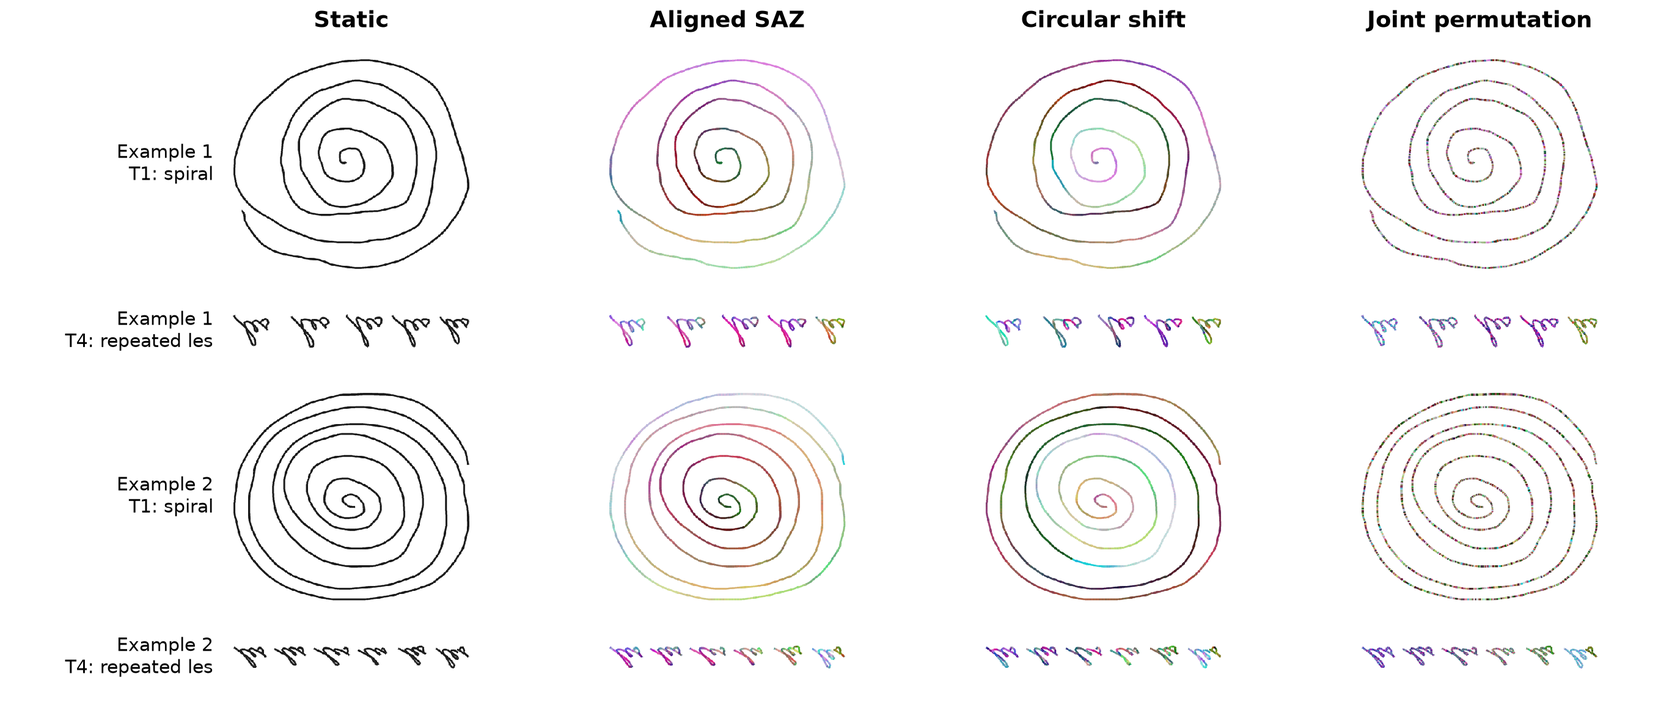
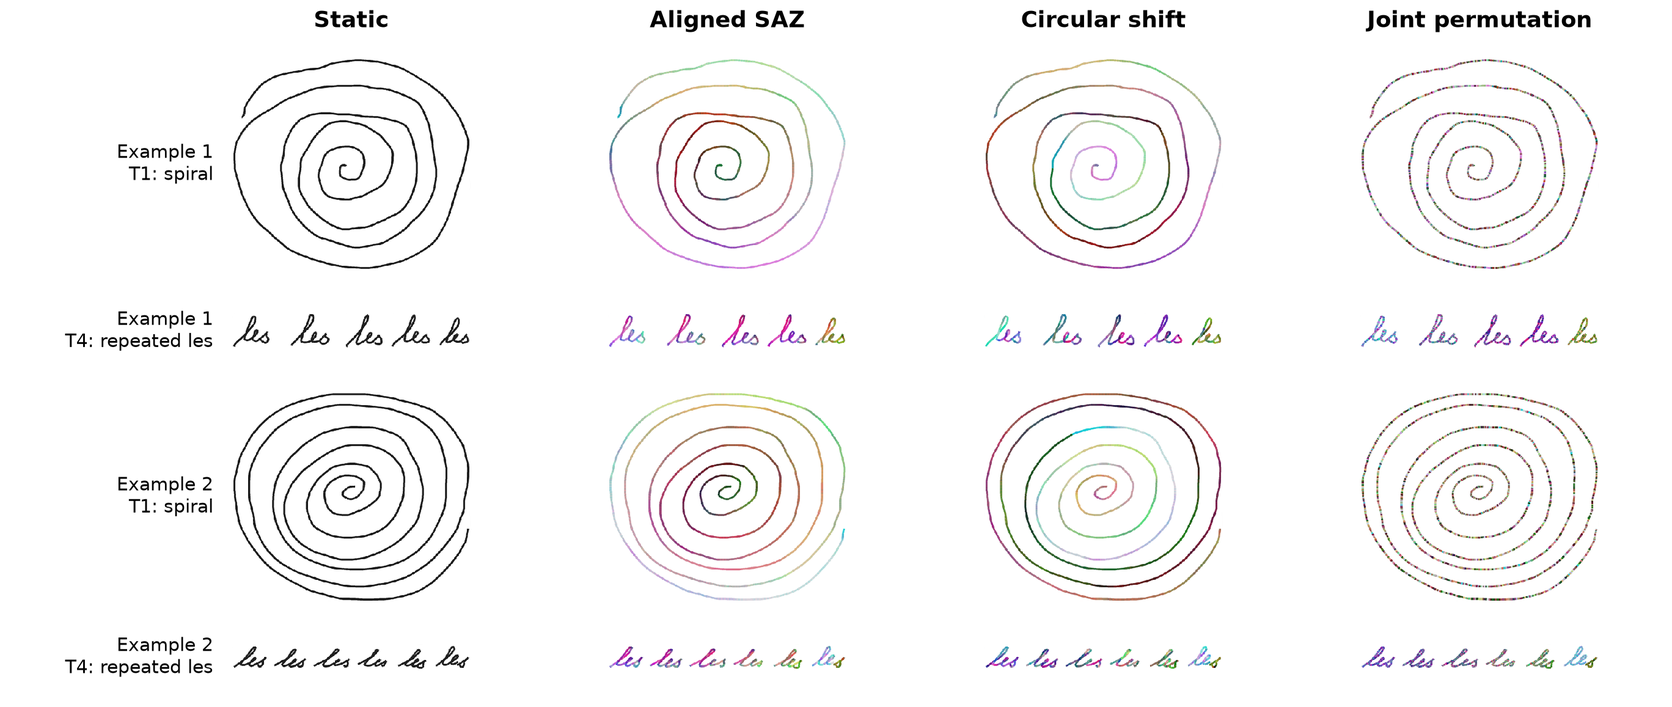
Address advisors' review: Fig. 6 orientation, Holm citation, LPQ rationale, spelling
- Flip the Fig. 6 panels vertically for display so the T4 "les" reads in
  writing orientation, and update its caption and the Section 2 note.
- Add and cite Holm (1979), verified against the JSTOR cover page.
- LPQ rationale: include speed among the channels, cite blur tolerance,
  and state that no alternative descriptor was consistently superior.
- Fix typos from the Overleaf edits (x_i/y_i, "and and", St.~Anne's,
  "on the PaHaW dataset") and define t_i.
- Use American spelling throughout (color, favor, behavior, centering).

diff --git a/sections/04_representation_results.tex b/sections/04_representation_results.tex
@@ -9,7 +9,7 @@ Experiments~1 and~2 compare the encodings on common participant partitions. LPQ 
 \noindent
 Local Phase Quantization describes texture through local Fourier phase information \cite{Ojansivu2008}. We apply the same implementation independently to each RGB channel.
 
-The choice of LPQ was motivated by its encoding of local phase relationships in compact histograms, which is comparatively robust to blur and artifacts introduced by resizing, rasterization, and anti-aliasing. This property is particularly suitable for pseudodynamic minimaps with fixed line width, where the relevant information lies primarily in the spatial organization of the strokes and in local variations of the semantic RGB channels (pressure, altitude, azimuth), rather than in stroke-thickness variations. The selection was informed by preliminary comparisons against other texture and shape descriptors (i.e. grayscale and semantic RGB Local Binary Patterns (LBP), opponent LBP, GLCM/Haralick statistics, Gabor filters, Histogram of Oriented Gradients (HOG), and wavelet-based features) with LPQ providing the most favorable balance between compactness, robustness, and sensitivity to the fine local patterns encoded in the minimaps.
+The choice of LPQ was motivated by its encoding of local phase relationships in compact histograms, which tolerates blur \cite{Ojansivu2008} and is therefore less sensitive to the smoothing introduced by resizing, rasterization and anti-aliasing. This property suits pseudodynamic minimaps drawn with a fixed line width, where the relevant information lies in the spatial organization of the strokes and in local variations of the semantic RGB channels (speed, pressure, altitude and azimuth) rather than in stroke thickness. The selection was informed by preliminary comparisons with other texture and shape descriptors, namely grayscale and semantic RGB Local Binary Patterns (LBP), opponent LBP, GLCM/Haralick statistics, Gabor filters, Histograms of Oriented Gradients (HOG) and wavelet-based features. No alternative was consistently superior across tasks, and LPQ offered a favorable balance between compactness, robustness and sensitivity to the fine local patterns encoded in the minimaps.
 
 Before extraction, foreground is detected by any channel intensity below 250. We crop its bounding box, add a margin equal to 5\% of the longer dimension, pad to a square with white, and resize to $64\times64$ by bilinear interpolation. LPQ filters each channel with four complex $5\times5$ kernels at frequency offsets $(1,0)$, $(0,1)$, $(1,1)$ and $(1,-1)$, scaled by $1/5$. The signs of their real and imaginary responses form an eight-bit code at each pixel, using reflected boundaries. We normalize a 256-bin histogram by its count, take its element-wise square root, and concatenate the channels. The 768-attribute vector includes the padded background. No decorrelation or spatial pyramid is applied.
 
@@ -26,7 +26,7 @@ Experiment~1 starts from the static trace (encoding~1), which reaches a recordin
 \begin{figure*}[t]
 \centering
 \includegraphics[width=0.8\textwidth]{encoding_heatmap.pdf}
-\caption{Recording-level macro F1 of Experiment~1 for every encoding and task, averaged over five repetitions. Rows follow Table~\ref{tab:encoding}, from the static trace (1) to $PAZ$ (9). Colour helps most on the spiral (T1), and the best encoding differs between tasks.}
+\caption{Recording-level macro F1 of Experiment~1 for every encoding and task, averaged over five repetitions. Rows follow Table~\ref{tab:encoding}, from the static trace (1) to $PAZ$ (9). Color helps most on the spiral (T1), and the best encoding differs between tasks.}
 \label{fig:heatmap}
 \end{figure*}
 \noindent
@@ -44,21 +44,21 @@ Holding $SAZ$ and the participant partitions fixed, Experiment~1 also varies the
 \subsection{Choosing the Encoding Within Training}
 \label{sec:nested-followup}
 \noindent
-Experiment~2 evaluates the procedure that chooses an encoding. It keeps the outer participant partitions and adds three inner folds common across tasks. Within each outer training set, each task and encoding receives the same 21-candidate SVM search, and one encoding is chosen for all eight tasks by the unweighted mean of the selected per-task scores, with ties resolved in favour of the static trace. We compare a fixed static policy, selection among all nine encodings, and selection among the eight dynamic encodings.
+Experiment~2 evaluates the procedure that chooses an encoding. It keeps the outer participant partitions and adds three inner folds common across tasks. Within each outer training set, each task and encoding receives the same 21-candidate SVM search, and one encoding is chosen for all eight tasks by the unweighted mean of the selected per-task scores, with ties resolved in favor of the static trace. We compare a fixed static policy, selection among all nine encodings, and selection among the eight dynamic encodings.
 
 Experiment~2 also chooses the fusion rule without the test participants. The training participants are split into three parts; on each split, encoding and SVM selection are repeated on two parts and the third is predicted. These validation predictions choose the rule, after which the encoding and per-task models are selected again on all training participants. Calibration uses training participants only, and every choice is saved before the test participants are scored.
 
-Training data consistently favour the dynamics. Although ties went to the static trace, selection among all nine encodings chose a dynamic encoding in 24 of the 25 outer training sets. No single signal dominates: in the dynamic-only policy, azimuth (5) was chosen five times and $SAZ$ (8) four times. On the recording-level endpoint the dynamic-only policy reaches 0.5643 and the nine-encoding policy 0.5618, against 0.5620 for static, with paired differences of +0.0023 [$-$0.0172, 0.0221] and $-$0.0002 [$-$0.0192, 0.0190]. One encoding chosen for eight heterogeneous tasks averages gains with losses, from +0.0567 on the spiral to $-$0.0274 on T5 for the dynamic-only policy. With the fusion rule also chosen inside training, participant-level macro F1 is 0.6017 for dynamic-only and 0.5991 for nine-encoding selection, against 0.6171 for static. Experiment~3 therefore tests the selected encoding on a shorter and more homogeneous task set.
+Training data consistently favor the dynamics. Although ties went to the static trace, selection among all nine encodings chose a dynamic encoding in 24 of the 25 outer training sets. No single signal dominates: in the dynamic-only policy, azimuth (5) was chosen five times and $SAZ$ (8) four times. On the recording-level endpoint the dynamic-only policy reaches 0.5643 and the nine-encoding policy 0.5618, against 0.5620 for static, with paired differences of +0.0023 [$-$0.0172, 0.0221] and $-$0.0002 [$-$0.0192, 0.0190]. One encoding chosen for eight heterogeneous tasks averages gains with losses, from +0.0567 on the spiral to $-$0.0274 on T5 for the dynamic-only policy. With the fusion rule also chosen inside training, participant-level macro F1 is 0.6017 for dynamic-only and 0.5991 for nine-encoding selection, against 0.6171 for static. Experiment~3 therefore tests the selected encoding on a shorter and more homogeneous task set.
 
 \subsection{Controls of the Signal--Position Association}
 \label{sec:controls}
 \noindent
-Adding colour changes both the signal content and the image texture. Two controls keep the ingredients of the texture and change only where each signal value occurs: a nonzero circular shift by 25--75\% of the segments within each pen-down stroke, and a joint permutation of the segments within that stroke. The three channels move together, so each segment keeps its combination of values; single-segment strokes are unchanged and no value crosses a pen lift. Both controls keep geometry, line width and normalization, and permutation additionally breaks the continuity of the signal along the stroke (Figure~\ref{fig:controls-examples}). Each control transforms training and test recordings with three fixed seeds and repeats the dynamic-only selection; metrics are averaged over seeds, and bootstrap draws keep each participant's tasks, repetitions and seeds together.
+Adding color changes both the signal content and the image texture. Two controls keep the ingredients of the texture and change only where each signal value occurs: a nonzero circular shift by 25--75\% of the segments within each pen-down stroke, and a joint permutation of the segments within that stroke. The three channels move together, so each segment keeps its combination of values; single-segment strokes are unchanged and no value crosses a pen lift. Both controls keep geometry, line width and normalization, and permutation additionally breaks the continuity of the signal along the stroke (Figure~\ref{fig:controls-examples}). Each control transforms training and test recordings with three fixed seeds and repeats the dynamic-only selection; metrics are averaged over seeds, and bootstrap draws keep each participant's tasks, repetitions and seeds together.
 
 \begin{figure*}[t]
 \centering
 \includegraphics[width=\textwidth]{spatial_controls_cropped.png}
-\caption{The two controls of Experiment~2 applied to the spiral (T1) and repeated \textit{les} (T4) of two participants, with seed 20260909. Aligned $SAZ$ is the unpermuted encoding. Geometry, pen-down segments and line width are unchanged; circular shifts move coherent runs of colour along each stroke, whereas joint permutation scatters them. Images are shown as rendered, vertically mirrored (Section~\ref{sec:encoding}), and were not selected by classifier performance.}
+\caption{The two controls of Experiment~2 applied to the spiral (T1) and repeated \textit{les} (T4) of two participants, with seed 20260909. Aligned $SAZ$ is the unpermuted encoding. Geometry, pen-down segments and line width are unchanged; circular shifts move coherent runs of color along each stroke, whereas joint permutation scatters them. The rendered images are flipped vertically for display, so the writing appears in its natural orientation (Section~\ref{sec:encoding}); they were not selected by classifier performance.}
 \label{fig:controls-examples}
 \end{figure*}
 
@@ -79,4 +79,4 @@ Joint-permutation control & 0.5442 [0.4956, 0.5885] & +0.0201 [0.0010, 0.0399]\\
 \end{tabular}
 \end{table*}
 
-Table~\ref{tab:nested-controls} summarizes Experiment~2. Displacing the signals within strokes lowered recording-level macro F1 from 0.5643 to 0.5561 under circular shifts and to 0.5442 under joint permutation, a decrease of 0.0201 [0.0010, 0.0399] whose interval lies above zero. The effect is largest on the spiral, where permutation removes 0.0609 [0.0086, 0.1174]. This pattern indicates that performance depends on where the dynamics are placed along the trajectory, not only on the colours present in the image. The four contrasts of this experiment, the two selection policies against static and dynamic-only selection against each control, form one Holm family, in which the permutation effect has adjusted $p=0.1848$; confirming it will require a larger cohort.
+Table~\ref{tab:nested-controls} summarizes Experiment~2. Displacing the signals within strokes lowered recording-level macro F1 from 0.5643 to 0.5561 under circular shifts and to 0.5442 under joint permutation, a decrease of 0.0201 [0.0010, 0.0399] whose interval lies above zero. The effect is largest on the spiral, where permutation removes 0.0609 [0.0086, 0.1174]. This pattern indicates that performance depends on where the dynamics are placed along the trajectory, not only on the colors present in the image. The four contrasts of this experiment, the two selection policies against static and dynamic-only selection against each control, form one Holm family, in which the permutation effect has adjusted $p=0.1848$; confirming it will require a larger cohort.

diff --git a/sections/02_encoding.tex b/sections/02_encoding.tex
@@ -2,21 +2,21 @@
 \label{sec:encoding}
 
 \noindent
-To vary the information encoded in each minimap, we first reconstruct the visible trace. We then map individual pen signals to colour and combine them without changing the trajectory or rendering geometry.
+To vary the information encoded in each minimap, we first reconstruct the visible trace. We then map individual pen signals to color and combine them without changing the trajectory or rendering geometry.
 
 \subsection{The Visible Trace}
 \noindent
-Let $q_i, i=1,2,..., N$ a handwriting task recording containing $N$ samples or points:
+Let $q_i$, $i=1,\dots,N$, be the samples or points of a handwriting task recording:
 \begin{equation}
  q_i=(x_i,y_i,t_i,s_i,z_i,a_i,p_i),
 \end{equation}
-where: $x_i$ and $x_i$ represent respective spatial coordinates at time $i$, $s_i$ indicates surface contact (i.e., "on-surface" or "in-air") , $z_i$ is the azimuth, $a_i$ represent the altitude and $p_i$ is pressure on the pen. The stored PaHaW columns place $y$ before $x$ coordinates; the renderer restores their planar order. Image rows follow the tablet's vertical coordinate without inversion, so every minimap is a vertically mirrored view of the writing; the transformation is identical for all records and both classes, and Figure~\ref{fig:tasks} shows the tasks in writing orientation.
+where $x_i$ and $y_i$ are the spatial coordinates of sample $i$, $t_i$ is its timestamp, $s_i$ indicates surface contact (i.e., ``on-surface'' or ``in-air''), $z_i$ is the azimuth, $a_i$ represents the altitude and $p_i$ is the pen pressure. The stored PaHaW columns place $y$ before $x$ coordinates; the renderer restores their planar order. Image rows follow the tablet's vertical coordinate without inversion, so every minimap is a vertically mirrored view of the writing; the transformation is identical for all records and both classes, and Figures~\ref{fig:tasks} and~\ref{fig:controls-examples} show the writing in its natural orientation.
 
 The static image uses only position and the contact indicator. A segment between samples $i$ and $i+1$ is drawn if both samples are on the surface:
 \begin{equation}
  \mathcal{S}=\{i:s_i=1\ \mathrm{and}\ s_{i+1}=1\}.
 \end{equation}
-This preserves pen lifts as gaps instead of joining the end of one stroke to the beginning of the next. Neither the in-air trajectory nor the duration of a lift appears in the image. Contact points alone determine its bounding box that is centered on a $512\times512$ white canvas with a 20-pixel margin, using one scale factor for both axes. Segments are drawn in RGB $(30,30,30)$ with constant 4-pixel thickness. Rendering takes place at three times the target resolution and is reduced with Lanczos filtering. These settings remain fixed throughout the colour experiments.
+This preserves pen lifts as gaps instead of joining the end of one stroke to the beginning of the next. Neither the in-air trajectory nor the duration of a lift appears in the image. Contact points alone determine its bounding box that is centered on a $512\times512$ white canvas with a 20-pixel margin, using one scale factor for both axes. Segments are drawn in RGB $(30,30,30)$ with constant 4-pixel thickness. Rendering takes place at three times the target resolution and is reduced with Lanczos filtering. These settings remain fixed throughout the color experiments.
 
 The image retains form and stroke discontinuities, but fitting every record to its own canvas removes absolute size. Geometrically similar samples of different sizes can produce the same image, discarding information about absolute micrographia.
 
@@ -29,11 +29,11 @@ The image retains form and stroke discontinuities, but fitting every record to i
 \put(0.010,0.322){\makebox(0,0){\rotatebox{90}{\small Healthy example}}}
 \put(0.010,0.105){\makebox(0,0){\rotatebox{90}{\small PD example}}}
 \end{picture}
-\caption{Building a pseudodynamic minimap from the same spiral trace. Rows show one healthy and one PD example, selected by a fixed identifier rule without reference to prediction quality. Columns move from the static trace (encoding~1 in Table~\ref{tab:encoding}) to speed alone (2) and two RGB triplets, $SAZ$ (8) and $PAZ$ (9). The trajectory is unchanged; colour describes within-recording variation.}
+\caption{Building a pseudodynamic minimap from the same spiral trace. Rows show one healthy and one PD example, selected by a fixed identifier rule without reference to prediction quality. Columns move from the static trace (encoding~1 in Table~\ref{tab:encoding}) to speed alone (2) and two RGB triplets, $SAZ$ (8) and $PAZ$ (9). The trajectory is unchanged; color describes within-recording variation.}
 \label{fig:progressive}
 \end{figure*}
 \noindent
-Four measurements are candidates for colour: speed ($S$), pressure ($P$), altitude ($A$) and azimuth ($Z$). Altitude describes pen inclination relative to the surface, while azimuth describes its orientation in the tablet plane. We first encode each signal alone (encodings 2--5 in Table~\ref{tab:encoding}), always in the red channel, with green and blue fixed at 30. This avoids changing the channel assignment while screening the signals.
+Four measurements are candidates for color: speed ($S$), pressure ($P$), altitude ($A$) and azimuth ($Z$). Altitude describes pen inclination relative to the surface, while azimuth describes its orientation in the tablet plane. We first encode each signal alone (encodings 2--5 in Table~\ref{tab:encoding}), always in the red channel, with green and blue fixed at 30. This avoids changing the channel assignment while screening the signals.
 
 For a surface segment, speed is calculated directly from the consecutive coordinates and timestamps:
 \begin{equation}
@@ -52,11 +52,11 @@ Each transformed signal is scaled within the recording being rendered. Let $q_{.
 with $u_i=0.5$ if the percentile range is degenerate. We map it to an integer channel value
 \begin{equation}
  c_i=\operatorname{round}(30+190u_i).
- \label{eq:colour}
+ \label{eq:color}
 \end{equation}
 The white background stays outside the semantic range. Antialiasing introduces intermediate intensities at boundaries, as in the static reconstruction.
 
-Each record is normalized independently, without a cohort-wide reference distribution or class labels. Colour therefore describes relative variation within a recording: the same red value in two images need not represent the same absolute speed or pressure. Circular centering also removes absolute pen orientation. These quantities remain available to methods that use the physical measurements directly.
+Each record is normalized independently, without a cohort-wide reference distribution or class labels. Color therefore describes relative variation within a recording: the same red value in two images need not represent the same absolute speed or pressure. Circular centering also removes absolute pen orientation. These quantities remain available to methods that use the physical measurements directly.
 
 \subsection{Combining Signals in RGB}
 \noindent
@@ -96,4 +96,4 @@ Figure~\ref{fig:rgb} decomposes an $SAZ$ minimap into its channels. In this spir
 
 Because the descriptor applies the same histogram construction to each channel, permuting the RGB assignment only permutes three feature blocks, and standardization followed by a linear or radial-basis SVM is invariant to that permutation apart from numerical effects. Each triplet therefore needs one assignment rather than six for the SVM experiment. The argument does not extend to every image model, and the CNN receives one fixed assignment.
 
-Segments are drawn in acquisition order. A later segment can overwrite an earlier colour at a crossing, and the image has no separate layer for repeated visits to the same position. It preserves spatially located signal variation, not the complete sample sequence. Calling the result pseudodynamic reflects that distinction.
+Segments are drawn in acquisition order. A later segment can overwrite an earlier color at a crossing, and the image has no separate layer for repeated visits to the same position. It preserves spatially located signal variation, not the complete sample sequence. Calling the result pseudodynamic reflects that distinction.

diff --git a/sections/01_introduction.tex b/sections/01_introduction.tex
@@ -2,20 +2,20 @@
 \label{sec:introduction}
 \input{sections/fig_method}
 \noindent
-When writing in an online environment, a digitizing tablet records the pen trajectory together with its speed, pressure and inclination. Encoding these measurements as colour adds information about how a pen trace was produced while keeping its recognizable shape, so that standard image descriptors and classifiers can use the dynamics directly.
+When writing in an online environment, a digitizing tablet records the pen trajectory together with its speed, pressure and inclination. Encoding these measurements as color adds information about how a pen trace was produced while keeping its recognizable shape, so that standard image descriptors and classifiers can use the dynamics directly.
 
-We aim to distinguish between Parkinson's disease (PD) and healthy participants (H) using PaHaW, a public annotated dataset containing online handwriting and drawing tasks from 75 participants \cite{Drotar2016}. Handwriting exposes aspects of fine motor behaviour, and the relation between pen motion and diagnosis depends on the task performed, device used and participant characteristics \cite{Impedovo2019}.
+We aim to distinguish between Parkinson's disease (PD) and healthy participants (H) using PaHaW, a public annotated dataset containing online handwriting and drawing tasks from 75 participants \cite{Drotar2016}. Handwriting exposes aspects of fine motor behavior, and the relation between pen motion and diagnosis depends on the task performed, device used and participant characteristics \cite{Impedovo2019}.
 
-We propose \emph{pseudodynamic minimaps}, a new image representation corresponding to online handwriting task executions. In this representation, the planar coordinates determine the spatial location of each point in the image, while colour encodes the dynamic writing information embedded in the strokes (e.g., handwriting pressure). The term minimap follows work that renders source code compactly as a visual signature \cite{Gebara2025}.
+We propose \emph{pseudodynamic minimaps}, a new image representation corresponding to online handwriting task executions. In this representation, the planar coordinates determine the spatial location of each point in the image, while color encodes the dynamic writing information embedded in the strokes (e.g., handwriting pressure). The term minimap follows work that renders source code compactly as a visual signature \cite{Gebara2025}.
 
 Handwriting classification has often used explicitly designed kinematic and pressure features, as in the study that introduced PaHaW \cite{Drotar2016}. Learned features provide another route, either from pen dynamics \cite{Pereira2016} or from visual attributes of reconstructed writing \cite{Moetesum2019}. Dynamic information has also appeared in earlier handwriting images: Diaz et al. encode movement through acquired points and pen-up trajectories for PD detection \cite{Diaz2019}, and Cilia et al. build synthetic RGB images from handwriting dynamics for Alzheimer's disease detection \cite{Cilia2021SyntheticImages}.
 
 Rendering a temporal signal as an image is an established route to reusing visual descriptors and convolutional models. Recurrence plots expose the recurrence structure of a dynamical system as a two-dimensional pattern \cite{Eckmann1987}, Gramian angular fields and Markov transition fields encode a univariate series as a matrix \cite{Wang2015}, and convolutional networks trained on such renderings are competitive on time-series benchmarks \cite{Hatami2018}. The same reduction appears outside the time domain, where source code is rendered as an image for classification \cite{Shi2022}.
 
-Pseudodynamic minimaps differ from these transforms in three respects. The image coordinates are the physical positions the pen visited rather than a time axis, so each signal value stays anchored to the stroke that produced it. Each signal is normalized within its own recording by percentiles, so colour describes the writer's relative variation. Azimuth is centered on its circular mean, so that the arbitrary zero-degree boundary does not separate similar orientations.
+Pseudodynamic minimaps differ from these transforms in three respects. The image coordinates are the physical positions the pen visited rather than a time axis, so each signal value stays anchored to the stroke that produced it. Each signal is normalized within its own recording by percentiles, so color describes the writer's relative variation. Azimuth is centered on its circular mean, so that the arbitrary zero-degree boundary does not separate similar orientations.
 
 This initial study evaluates the representation in three experiments that share participant-separated partitions (Figure~\ref{fig:method}). Experiment~1 adds speed, pressure, altitude and azimuth to the static trace, one at a time and as RGB triplets, and compares classifiers on the leading encoding. Experiment~2 selects the encoding with training participants only and displaces the signals along each stroke to test whether their position matters. Experiment~3 compares minimaps, described by LPQ texture or by pretrained ResNet18 features, with the static trace and with kinematic/pressure attributes on the repeated \textit{l}, \textit{le} and \textit{les} tasks examined in earlier work on PaHaW \cite{Casademunt2023}.
 
 The results indicate that the classifiers make use of the encoded dynamics. Training-only selection preferred a dynamic encoding over the static trace in almost every training set, displacing the signals along the stroke lowered performance, and on the three repeated-pattern tasks the minimap pipeline gave the best observed participant-level decisions among the four pipelines. A cohort of 75 participants leaves the size of these gains uncertain; the study establishes how pen dynamics can be carried into an image and where they help, rather than delivering a clinical tool.
 
-The rest of the paper is organized as follows. Section 2 describes the minimap representation. Section 3 summarizes the PaHaW dataset and evaluation metrics used. In Section 4 and 5 we describe the design of experiments and and report the achieved results. Section 6 provides a discussion on results. Finally, Section 7 concludes the paper.
+The rest of the paper is organized as follows. Section 2 describes the minimap representation. Section 3 summarizes the PaHaW dataset and evaluation metrics used. Sections 4 and 5 describe the design of the experiments and report the results achieved. Section 6 provides a discussion on results. Finally, Section 7 concludes the paper.

diff --git a/main.tex b/main.tex
@@ -44,9 +44,9 @@
 \affiliation{\sup{2}Departamento de Inform\'atica y Estad\'istica, Universidad Rey Juan Carlos, Spain}}
 \fi
 \keywords{Pseudodynamic Minimaps, Handwriting, Time-Series Imaging, Local Phase Quantization, Parkinson's Disease, PaHaW Dataset.}
-%\abstract{A digitizing tablet records pen speed, pressure and inclination alongside the trajectory it traces. We introduce \emph{pseudodynamic minimaps}, a formulation that renders these signals as colour along a contact-only trajectory, combining within-recording percentile normalization with circular azimuth centring. Each task execution yields one compact image. Using 597 PaHaW recordings from 75 participants, we evaluate the construction incrementally: static traces, isolated colour signals, and all four three-signal RGB combinations, under a fixed Local Phase Quantization descriptor, SVM search and participant-separated partitions. We then move encoding selection inside training, add spatial controls that displace signals along each stroke, and compare against kinematic/pressure features and frozen ResNet18 transfer features on three tasks fixed from prior work. Training-selected minimaps reach the highest observed participant-level macro F1, 0.6449, against 0.6143 for static images, 0.6279 for kinematics and 0.6021 for transfer features. The gains are task-dependent: reducing eight tasks to three helps two pipelines and lowers two others. No contrast between encodings, nor between the competitive pipelines, survives multiplicity correction. The study therefore contributes an explicit encoding technique and a controlled account of what its performance depends on, rather than a demonstrated advantage.}
+%\abstract{A digitizing tablet records pen speed, pressure and inclination alongside the trajectory it traces. We introduce \emph{pseudodynamic minimaps}, a formulation that renders these signals as color along a contact-only trajectory, combining within-recording percentile normalization with circular azimuth centering. Each task execution yields one compact image. Using 597 PaHaW recordings from 75 participants, we evaluate the construction incrementally: static traces, isolated color signals, and all four three-signal RGB combinations, under a fixed Local Phase Quantization descriptor, SVM search and participant-separated partitions. We then move encoding selection inside training, add spatial controls that displace signals along each stroke, and compare against kinematic/pressure features and frozen ResNet18 transfer features on three tasks fixed from prior work. Training-selected minimaps reach the highest observed participant-level macro F1, 0.6449, against 0.6143 for static images, 0.6279 for kinematics and 0.6021 for transfer features. The gains are task-dependent: reducing eight tasks to three helps two pipelines and lowers two others. No contrast between encodings, nor between the competitive pipelines, survives multiplicity correction. The study therefore contributes an explicit encoding technique and a controlled account of what its performance depends on, rather than a demonstrated advantage.}
 
-\abstract{Digitizing tablets capture handwriting trajectories together with dynamic information such as speed, pressure and pen orientation. We introduce \emph{pseudodynamic minimaps}, a new visual representation that encodes these dynamics along the contact trajectory, preserving handwriting geometry in a compact image. The formulation combines contact-only rendering, percentile-based normalization and circular azimuth centring. We evaluate pseudodynamic minimaps on 597 recordings from 75 participants of the PaHaW Parkinson's disease dataset in three experiments with participant-separated cross-validation. The first compares static traces, single-signal encodings and RGB combinations of speed, pressure, altitude and azimuth with a Local Phase Quantization descriptor and a SVM classifier. The second selects the encoding with training data only and tests spatial controls that displace the dynamics along the trajectory. The third compares minimaps with kinematic features and with pretrained ResNet18 features extracted from the minimaps. Training-only selection preferred a dynamic encoding in 24 of 25 training sets, and on a predefined three-task subset the minimap pipeline achieved the highest participant-level macro F1 (0.6449), compared with 0.6143 for static images, 0.6279 for kinematic features and 0.6021 for ResNet18 features. These results indicate that pseudodynamic minimaps are an effective way to incorporate pen dynamics into image-based handwriting analysis for Parkinson's disease.}
+\abstract{Digitizing tablets capture handwriting trajectories together with dynamic information such as speed, pressure and pen orientation. We introduce \emph{pseudodynamic minimaps}, a new visual representation that encodes these dynamics along the contact trajectory, preserving handwriting geometry in a compact image. The formulation combines contact-only rendering, percentile-based normalization and circular azimuth centering. We evaluate pseudodynamic minimaps on 597 recordings from 75 participants of the PaHaW Parkinson's disease dataset in three experiments with participant-separated cross-validation. The first compares static traces, single-signal encodings and RGB combinations of speed, pressure, altitude and azimuth with a Local Phase Quantization descriptor and a SVM classifier. The second selects the encoding with training data only and tests spatial controls that displace the dynamics along the trajectory. The third compares minimaps with kinematic features and with pretrained ResNet18 features extracted from the minimaps. Training-only selection preferred a dynamic encoding in 24 of 25 training sets, and on a predefined three-task subset the minimap pipeline achieved the highest participant-level macro F1 (0.6449), compared with 0.6143 for static images, 0.6279 for kinematic features and 0.6021 for ResNet18 features. These results indicate that pseudodynamic minimaps are an effective way to incorporate pen dynamics into image-based handwriting analysis for Parkinson's disease.}
 
 \onecolumn\maketitle\normalsize\setcounter{footnote}{0}\vfill
 \input{sections/01_introduction}

diff --git a/sections/07_discussion.tex b/sections/07_discussion.tex
@@ -2,7 +2,7 @@
 \label{sec:discussion}
 
 \noindent
-The three experiments indicate that the classifiers use the pen dynamics encoded in the minimaps. When the static trace was available and favoured by ties, training-only selection chose a dynamic encoding in 24 of 25 training sets in Experiment~2, and in 23 of 25 with LPQ and 24 of 25 with ResNet18 in Experiment~3. Displacing the signals within strokes lowered recording-level macro F1, most under joint permutation, so the position of each value along the trajectory matters and not only the colours present. The benefit is clearest on the spiral, the drawing task, where $SAZ$ added 0.0802 in Experiment~1 and permutation removed 0.0609 in Experiment~2.
+The three experiments indicate that the classifiers use the pen dynamics encoded in the minimaps. When the static trace was available and favored by ties, training-only selection chose a dynamic encoding in 24 of 25 training sets in Experiment~2, and in 23 of 25 with LPQ and 24 of 25 with ResNet18 in Experiment~3. Displacing the signals within strokes lowered recording-level macro F1, most under joint permutation, so the position of each value along the trajectory matters and not only the colors present. The benefit is clearest on the spiral, the drawing task, where $SAZ$ added 0.0802 in Experiment~1 and permutation removed 0.0609 in Experiment~2.
 
 The gains depend on the task (Figure~\ref{fig:heatmap}). One encoding chosen for all eight tasks averages gains on the spiral and T6 with losses on T2, T3 and T5, which keeps its eight-task mean close to the static trace, whereas on the homogeneous letter patterns of T2--T4 the selected encoding gives the best participant-level decisions. Choosing encodings per task, rather than one for the whole protocol, is a direct way to exploit this dependence.
 
@@ -11,6 +11,6 @@ The pipelines are strong on different tasks (Table~\ref{tab:per-task}): minimaps
 \section{\uppercase{Conclusion}}
 \label{sec:conclusion}
 \noindent
-This initial study introduced pseudodynamic minimaps, a new image representation that places pen speed, pressure, altitude and azimuth as colour along the handwriting trajectory. When evaluated on the PaHaW dataset using participant-separated partitions, the proposed representation was consistently preferred to static traces according to a training-based selection procedure. Introducing stroke-wise displacement dynamics reduced its performance. Furthermore, across the three repeated-pattern tasks, it achieved the best participant-level classification results among the four pipelines under comparison. These results indicate that pseudodynamic minimaps are an effective way to bring pen dynamics into image-based handwriting analysis for Parkinson's disease. Although our results are encouraging, they are based on a single dataset comprising 75 participants. Validation on independent cohorts is therefore required to establish the robustness and generalizability of the observed gains.
+This initial study introduced pseudodynamic minimaps, a new image representation that places pen speed, pressure, altitude and azimuth as color along the handwriting trajectory. When evaluated on the PaHaW dataset using participant-separated partitions, the proposed representation was consistently preferred to static traces according to a training-based selection procedure. Introducing stroke-wise displacement dynamics reduced its performance. Furthermore, across the three repeated-pattern tasks, it achieved the best participant-level classification results among the four pipelines under comparison. These results indicate that pseudodynamic minimaps are an effective way to bring pen dynamics into image-based handwriting analysis for Parkinson's disease. Although our results are encouraging, they are based on a single dataset comprising 75 participants. Validation on independent cohorts is therefore required to establish the robustness and generalizability of the observed gains.
 
-Future work will choose encodings per each task, combine minimaps with kinematic descriptors, and fine-tune pretrained networks on the minimaps. A fair comparison with other published results o PaHaW dataset is also left for future work. 
+Future work will choose encodings per task, combine minimaps with kinematic descriptors, and fine-tune pretrained networks on the minimaps. A fair comparison with other published results on the PaHaW dataset is also left for future work.

diff --git a/sections/03_protocol.tex b/sections/03_protocol.tex
@@ -7,7 +7,7 @@ The evaluation is organized as three experiments that share the same participant
 \subsection{The PaHaW Dataset}
 \label{sec:dataset}
 \noindent
-PaHaW was acquired with the First Department of Neurology at St.Anne's University Hospital in Brno and includes 37 PD patients (19 men) and 38 healthy participants (20 men) \cite{Drotar2016}. All participants were native Czech speakers who wrote with their dominant right hand, and the patients were recorded under L-DOPA medication. They wrote with an inking pen on an empty paper template laid over a Wacom Intuos 4M tablet, which gave normal visual feedback, while a predefined template showed each task; neither the number of repetitions nor the writing height was imposed. The tablet sampled the pen at 100 samples per second during on-surface and in-air movement, recording position, pressure and pen status, and the released recordings also contain altitude and azimuth. The dataset has since been used to study which handwritten elements carry Parkinsonian alterations \cite{Casademunt2024}.
+PaHaW was acquired with the First Department of Neurology at St.~Anne's University Hospital in Brno and includes 37 PD patients (19 men) and 38 healthy participants (20 men) \cite{Drotar2016}. All participants were native Czech speakers who wrote with their dominant right hand, and the patients were recorded under L-DOPA medication. They wrote with an inking pen on an empty paper template laid over a Wacom Intuos 4M tablet, which gave normal visual feedback, while a predefined template showed each task; neither the number of repetitions nor the writing height was imposed. The tablet sampled the pen at 100 samples per second during on-surface and in-air movement, recording position, pressure and pen status, and the released recordings also contain altitude and azimuth. The dataset has since been used to study which handwritten elements carry Parkinsonian alterations \cite{Casademunt2024}.
 
 \begin{figure}[t]
 \centering\footnotesize
@@ -75,7 +75,7 @@ and Experiment~3 uses the corresponding mean over T2--T4. The \emph{participant-
 
 We calculate 95\% percentile confidence intervals from 10,000 diagnosis-stratified bootstrap draws of participants; each draw keeps all of a participant's tasks and repeated predictions, and a paired contrast applies the same draw to both methods. The randomization test exchanges method predictions per participant, jointly across tasks and repetitions, using 10,000 swap patterns. Both procedures keep the fitted models fixed, so they describe uncertainty in these predictions without the variability of retraining.
 
-Holm adjustment is applied within declared families. In Experiment~1 these are the 36 encoding pairs, the per-task contrasts of single signals and of triplets against static (32 each), the six classifier pairs at each endpoint, the three fusion-rule pairs and eight per-task CNN--SVM contrasts; Experiments~2 and~3 declare their own families. With 75 participants, the advantage of the LPQ models over the scratch-trained CNN (Section~\ref{sec:classifiers}) is the difference that survives its family. We therefore report effect sizes with their 95\% intervals throughout and give adjusted $p$ values where they are informative.
+Holm adjustment \cite{Holm1979} is applied within declared families. In Experiment~1 these are the 36 encoding pairs, the per-task contrasts of single signals and of triplets against static (32 each), the six classifier pairs at each endpoint, the three fusion-rule pairs and eight per-task CNN--SVM contrasts; Experiments~2 and~3 declare their own families. With 75 participants, the advantage of the LPQ models over the scratch-trained CNN (Section~\ref{sec:classifiers}) is the difference that survives its family. We therefore report effect sizes with their 95\% intervals throughout and give adjusted $p$ values where they are informative.
 
 \subsection{One Decision per Participant}
 \label{sec:fusion}

diff --git a/sections/05b_competitive.tex b/sections/05b_competitive.tex
@@ -8,7 +8,7 @@ Experiment~3 asks whether rendering the pen dynamics as an image is worthwhile, 
 \noindent
 The primary set comprises repeated \textit{l}, \textit{le} and \textit{les} (T2--T4), the tasks examined in the reference thesis~\cite{Casademunt2023}. We fix this set before fitting the models, and combining its three tasks by voting is our adaptation. Four pipelines are evaluated: the static trace with LPQ and SVM, minimaps with LPQ and SVM, minimaps with frozen ResNet18 features and a trained linear head, and kinematic/pressure attributes with SVM. Both minimap pipelines choose among the nine encodings of Table~\ref{tab:encoding}, including the static trace.
 
-The pipelines share the 25 outer participant partitions and three common inner folds. For each task and eligible encoding, mean inner-fold macro F1 selects the classifier parameters, and each minimap pipeline chooses one encoding for the task set by averaging these scores across its tasks, with ties resolved in favour of the static trace. Every choice uses only outer-training participants; standardization is fitted within the training partition, and selected models are refitted on the complete outer-training set. The three SVM pipelines retain the same 21-candidate linear/RBF search.
+The pipelines share the 25 outer participant partitions and three common inner folds. For each task and eligible encoding, mean inner-fold macro F1 selects the classifier parameters, and each minimap pipeline chooses one encoding for the task set by averaging these scores across its tasks, with ties resolved in favor of the static trace. Every choice uses only outer-training participants; standardization is fitted within the training partition, and selected models are refitted on the complete outer-training set. The three SVM pipelines retain the same 21-candidate linear/RBF search.
 
 The primary endpoint is participant-level macro F1 from majority voting over T2--T4 (Section~\ref{sec:fusion}), with no calibration, learned weights or rule selection. Recording-level macro F1 over the three tasks is secondary. Holm adjustment covers the six pipeline pairs separately at each endpoint, and the four within-pipeline contrasts between three-task and eight-task voting form another family.
 

diff --git a/sections/fig_method.tex b/sections/fig_method.tex
@@ -19,7 +19,7 @@
   {\textbf{Pseudodynamic minimap}\\[2pt]
    \textbullet\ trace drawn only where the pen touches the tablet\\
    \textbullet\ each signal normalized within its own recording\\
-   \textbullet\ azimuth centred on its circular mean\\
+   \textbullet\ azimuth centered on its circular mean\\
    \textbullet\ up to three signals mapped to RGB};
 
 \node[stage=orange!7, text width=3.9cm, right=5mm of render.north east, anchor=north west] (enc)
